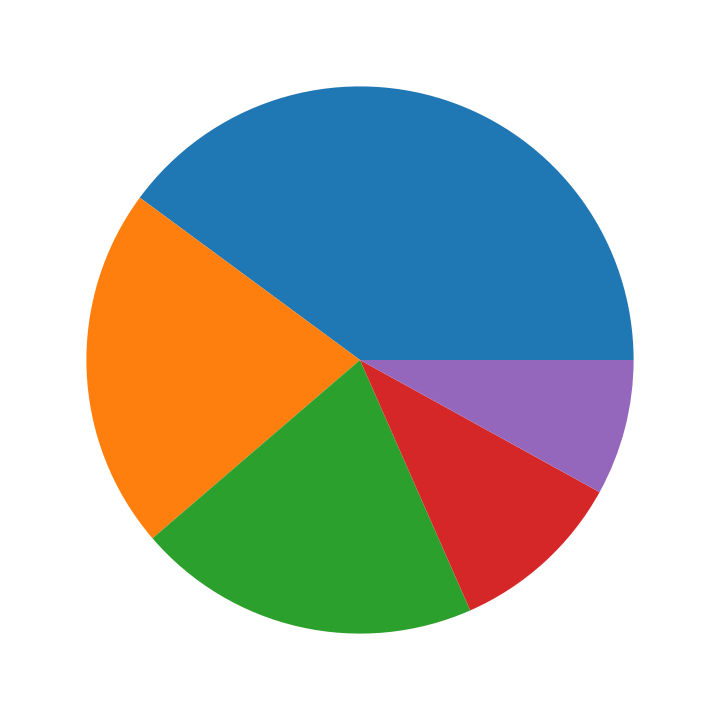
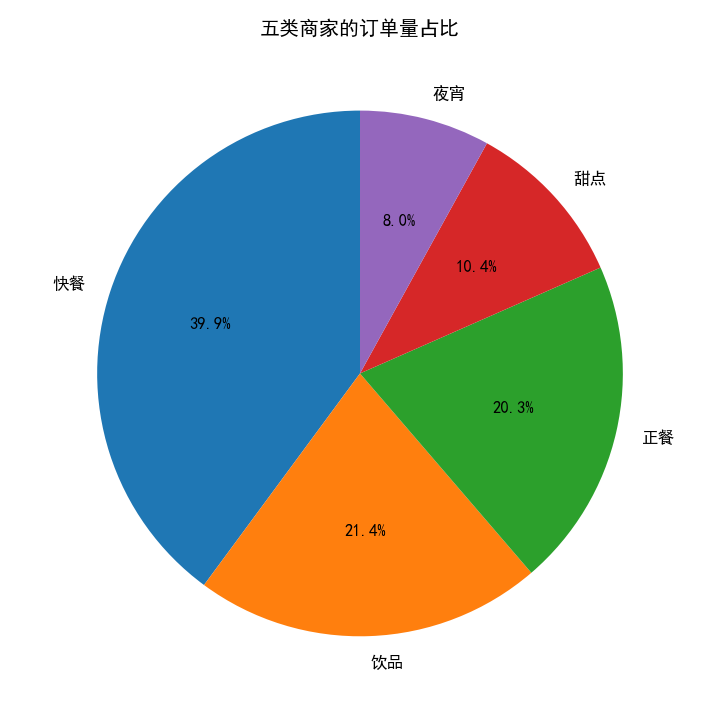
fig4 build finished

diff --git a/exp2/main.py b/exp2/main.py
@@ -94,7 +94,8 @@ def draw_fig4(df):
 
     fig, ax = plt.subplots(figsize=(6,6))
 
-    ax.pie(cnt.values)
+    ax.pie(cnt.values, labels=cnt.index, autopct="%1.1f%%", shadow=False, startangle=90)
+    ax.set_title("五类商家的订单量占比")
 
     save(fig, "fig4.png")
 
